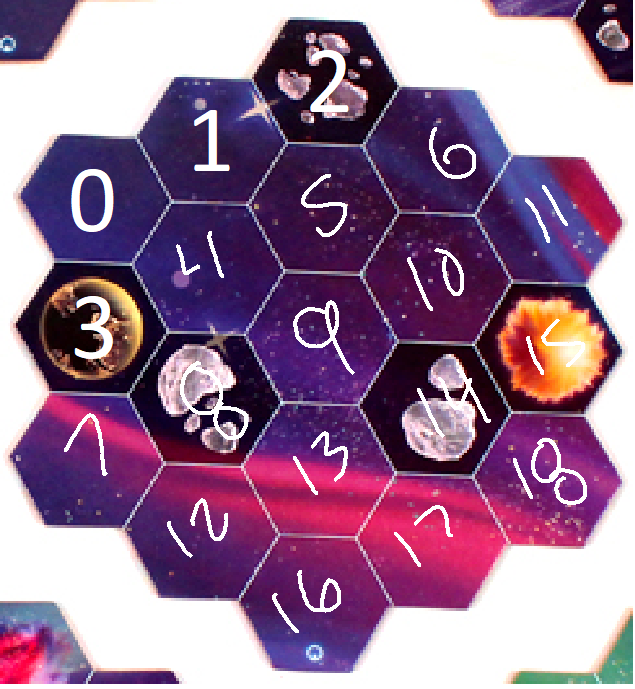
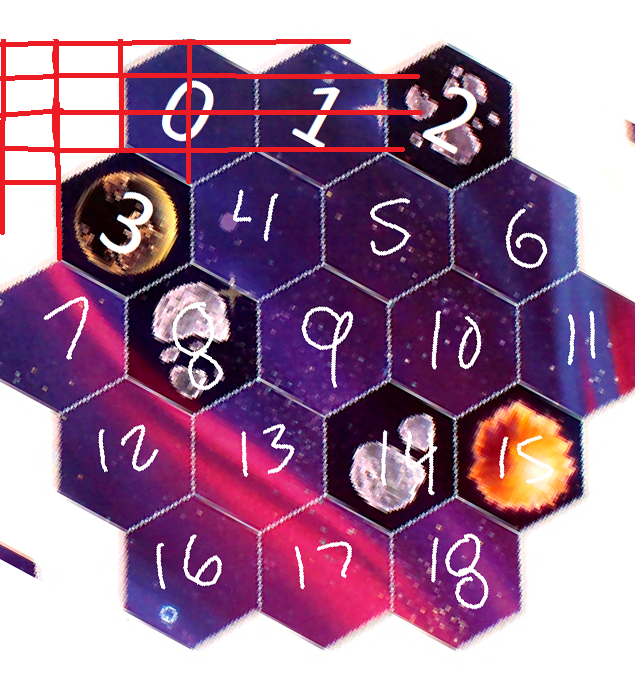
Updated css and general styling and color coding

diff --git a/src/template.ts b/src/template.ts
@@ -1,24 +1,38 @@
 export const enum NodeType
 {
-    space,
-    planet,
-    unreachable, // for astroids/stars/spacestation
-    nebula,
-    cannon,
-    orbit
+    unreachable = "unreachable", // for astroids/stars/spacestation
+    space = "space",
+    planet = "planet",
+    nebula = "nebula",
+    cannon = "cannon",
+    orbit = "orbit"
+}
+
+export const enum PlanetTypes
+{
+    BlueRed = "BlueRed",
+    PinkSaturn = "PinkSaturn",
+    GreenBall = "GreenBall",
+    IceBall = "IceBall",
+    BlackGold = "BlackGold",
+    FuzzyOrange = "FuzzyOrange",
+    WaterWorld = "WaterWorld",
+    FuzzyIce = "FuzzyIce",
+    YellowJupiter = "YellowJupiter",
+    PurpleEye = "PurpleEye"
 }
 
 export interface NodeDescription
 {
     type: NodeType;
-    name?: string;
+    name?: PlanetTypes;
 }
 
 export const template: NodeDescription[][] = [
     //0
     [{ type: NodeType.unreachable},
      { type: NodeType.space},
-     { type: NodeType.planet, name: "BlueRed"},
+     { type: NodeType.planet, name: PlanetTypes.BlueRed},
      { type: NodeType.space},
      { type: NodeType.space},
      { type: NodeType.space},
@@ -67,7 +81,7 @@ export const template: NodeDescription[][] = [
      { type: NodeType.space},
      { type: NodeType.space},
      { type: NodeType.space},
-     { type: NodeType.planet, name: "PinkSaturn"},
+     { type: NodeType.planet, name: PlanetTypes.PinkSaturn},
      { type: NodeType.space},
      { type: NodeType.space},
      { type: NodeType.space},
@@ -85,7 +99,7 @@ export const template: NodeDescription[][] = [
      { type: NodeType.space},
      { type: NodeType.space},
      { type: NodeType.unreachable},
-     { type: NodeType.planet, name: "GreenBall"},
+     { type: NodeType.planet, name: PlanetTypes.GreenBall },
      { type: NodeType.space},
      { type: NodeType.space},
      { type: NodeType.unreachable},
@@ -106,7 +120,7 @@ export const template: NodeDescription[][] = [
      { type: NodeType.cannon},
      { type: NodeType.space},
      { type: NodeType.space},
-     { type: NodeType.planet, name: "IceBall"},
+     { type: NodeType.planet, name: PlanetTypes.IceBall },
      { type: NodeType.space},
      { type: NodeType.space},
      { type: NodeType.space},
@@ -119,7 +133,7 @@ export const template: NodeDescription[][] = [
     [{ type: NodeType.space},
     { type: NodeType.space},
     { type: NodeType.unreachable},
-    { type: NodeType.planet, name: "BlackGold"},
+    { type: NodeType.planet, name: PlanetTypes.BlackGold },
     { type: NodeType.space},
     { type: NodeType.space},
     { type: NodeType.space},
@@ -131,7 +145,7 @@ export const template: NodeDescription[][] = [
     { type: NodeType.space},
     { type: NodeType.space},
     { type: NodeType.unreachable},
-    { type: NodeType.planet, name: "FuzzyOrange"},
+    { type: NodeType.planet, name: PlanetTypes.FuzzyOrange },
     { type: NodeType.space},
     { type: NodeType.space},
     { type: NodeType.space}],
@@ -150,7 +164,7 @@ export const template: NodeDescription[][] = [
     { type: NodeType.space},
     { type: NodeType.unreachable},
     { type: NodeType.unreachable},
-    { type: NodeType.planet, name: "WaterWorld"},
+    { type: NodeType.planet, name: PlanetTypes.WaterWorld},
     { type: NodeType.space},
     { type: NodeType.space},
     { type: NodeType.space},
@@ -173,7 +187,7 @@ export const template: NodeDescription[][] = [
     { type: NodeType.unreachable},
     { type: NodeType.space},
     { type: NodeType.space},
-    { type: NodeType.planet, name: "FuzzyIce"},
+    { type: NodeType.planet, name: PlanetTypes.FuzzyIce},
     { type: NodeType.space}],
     //8
     [{ type: NodeType.space},
@@ -190,7 +204,7 @@ export const template: NodeDescription[][] = [
     { type: NodeType.space},
     { type: NodeType.space},
     { type: NodeType.space},
-    { type: NodeType.planet, name: "YellowJupiter"},
+    { type: NodeType.planet, name: PlanetTypes.YellowJupiter},
     { type: NodeType.space},
     { type: NodeType.unreachable},
     { type: NodeType.space},
@@ -204,7 +218,7 @@ export const template: NodeDescription[][] = [
     { type: NodeType.space},
     { type: NodeType.space},
     { type: NodeType.space},
-    { type: NodeType.planet, name: "PurpleEye"},
+    { type: NodeType.planet, name: PlanetTypes.PurpleEye},
     { type: NodeType.space},
     { type: NodeType.unreachable},
     { type: NodeType.unreachable},

diff --git a/src/BoardPieceLayout.tsx b/src/BoardPieceLayout.tsx
@@ -2,7 +2,20 @@ import React, { useEffect, useState, useMemo } from 'react';
 import { HexNode } from './HexNode';
 import { NodeType, template } from './template';
 import { BoardPiece } from './BoardPiece';
+import './BoardStyle.css';
 
+function findRowAndColumn(index: number): { row: number, column: number } {
+    if(index < 3)
+        return { row: 1, column: 3 + index * 2 };
+    else if(index < 7)
+        return { row: 4, column: 2 + (index - 3)*2 };
+    else if (index < 12)
+        return { row: 7, column: 1 + (index - 7)*2 };
+    else if(index < 16)
+        return { row: 10, column: 2 + (index - 12)*2 };
+    else
+        return { row: 13, column: 3 + (index - 16)*2 };
+}
 
 export const BoardPieceLayout = (props: {boardPiece: BoardPiece}) => {
     const { boardPiece } = props;
@@ -18,28 +31,22 @@ export const BoardPieceLayout = (props: {boardPiece: BoardPiece}) => {
     }, [clicked]);
     
     return (
-        <div>
-            {nodes.map(hex => {
-                const isClicked = hex.getId() === clicked;
-                const isNeighbor = neighbors.includes(nodes[hex.getId()]);
+        <div className='grid-container'>
+            {nodes.map((hex) => {
+                const id = hex.getId();
+                const { row, column } = findRowAndColumn(id);
+                const isClicked = id === clicked;
+                const isNeighbor = neighbors.includes(nodes[id]);
+                const className = `hex ${isClicked ? 'is-clicked' : ''} ${isNeighbor ? 'is-neighbor' : ''} ${hex.getNodeType()}`;
+
                 return (
-                <div style={ {
-                     color: 'white', 
-                     border: '1px solid blue', 
-                     height: 20, 
-                     width: 200, 
-                     margin: 8, 
-                     padding: 10, 
-                     display: 'flex',
-                     flexDirection: "column",
-                     cursor: hex.getNodeType() === NodeType.unreachable ? 'not-allowed' : "pointer",
-                     backgroundColor:  hex.getNodeType() === NodeType.unreachable ? "grey" : 
-                        isClicked ? 'blue' : 
-                        isNeighbor ? 'green' : 'red'}} 
-                     onClick={() => setClicked(hex.getId())}>
-                    {`id: ${hex.getId()}`}
+                <div className={className} 
+                     style={ {
+                        gridColumn: `col ${column} / span 2`,
+                        gridRow: `row ${row} / span 4`} } 
+                     onClick={() => setClicked(id)}>
+                    {`id: ${id}`}
                     {hex.getPlanetName()}
-                    {`nodeType: ${hex.getNodeType()}`}
                 </div>)
             })}
         </div>

diff --git a/src/BoardStyle.css b/src/BoardStyle.css
@@ -1,0 +1,58 @@
+.hex {
+    color: white;
+    border: 20px solid black;
+    background-color: black;
+    box-sizing: border-box;
+    height: 200px;
+    width: 200px;
+    border-radius: 50%;
+    display: flex;
+    flex-direction: column;
+    align-content: center;
+    justify-content: center;
+    cursor: pointer
+}
+
+.hex.is-clicked{
+    border: 20px solid rgb(248, 73, 73);
+}
+
+.hex.is-neighbor{
+    border: 20px solid rgb(112, 112, 249);
+}
+
+.hex.unreachable {
+    border: 20px solid gray;
+    background-color: gray;
+    cursor: not-allowed;
+    pointer-events: none;
+}
+
+.hex.space {
+    background-color: rgb(31, 0, 31);
+}
+
+.hex.planet {
+    background-color: rgba(255, 194, 81, 0.766);
+    cursor: not-allowed;
+    pointer-events: none;
+}
+
+.hex.nebula {
+    background-color: lightcoral;
+}
+
+.hex.cannon {
+    background-color: rgba(0, 255, 255, 0.54);
+}
+
+.hex.orbit {
+    background-color: rgb(22, 77, 33);
+}
+
+.grid-container {
+    display: grid;
+    grid-template: repeat(16, [row] minmax(50px, 1fr)) / repeat(10, [col] minmax(100px, 1fr));
+    grid-gap: 4px;
+}
+

diff --git a/src/App.tsx b/src/App.tsx
@@ -11,7 +11,7 @@ function App() {
   });
 
   return (
-    <div className="App" style={ { display: 'flex' } }>
+    <div className="App" style={ { display: 'flex', flexWrap: 'wrap' } }>
        { boardPieceArray.map( ( piece ) => { 
           return <BoardPieceLayout boardPiece={ piece }/>
         })

diff --git a/src/index.css b/src/index.css
@@ -5,6 +5,7 @@ body {
     sans-serif;
   -webkit-font-smoothing: antialiased;
   -moz-osx-font-smoothing: grayscale;
+  background-color: rgb(50, 29, 69);
 }
 
 code {
